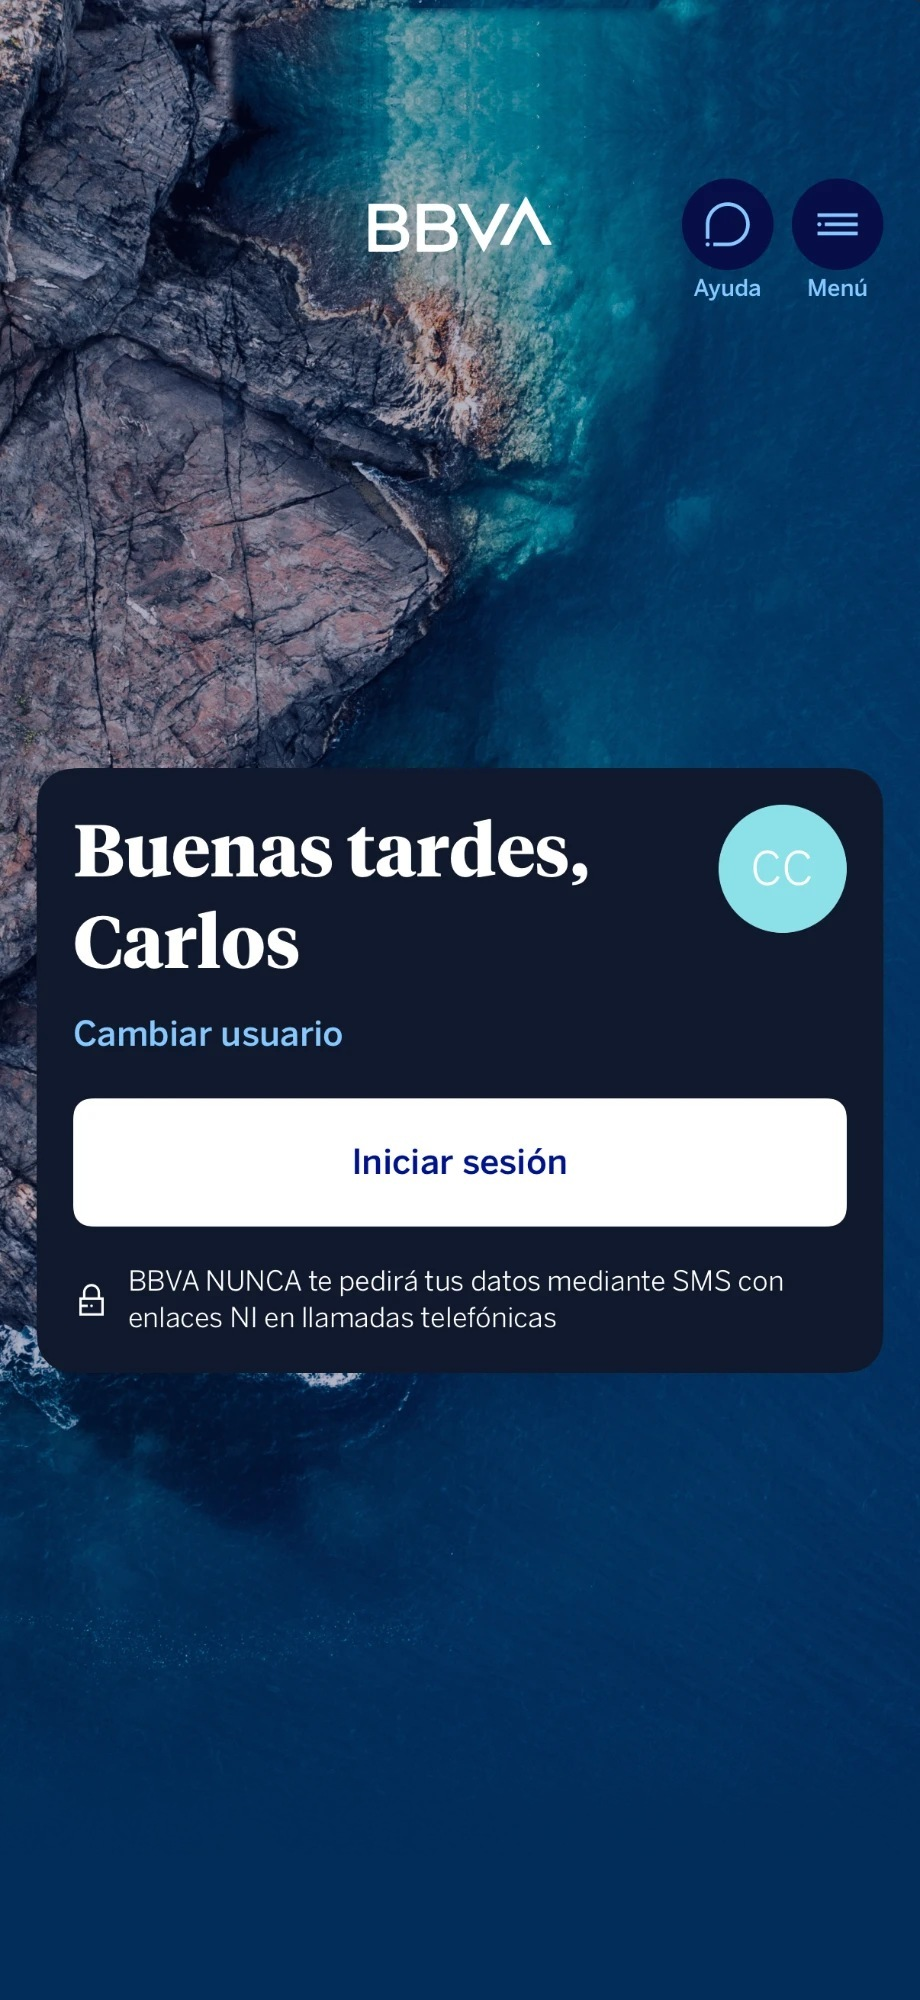
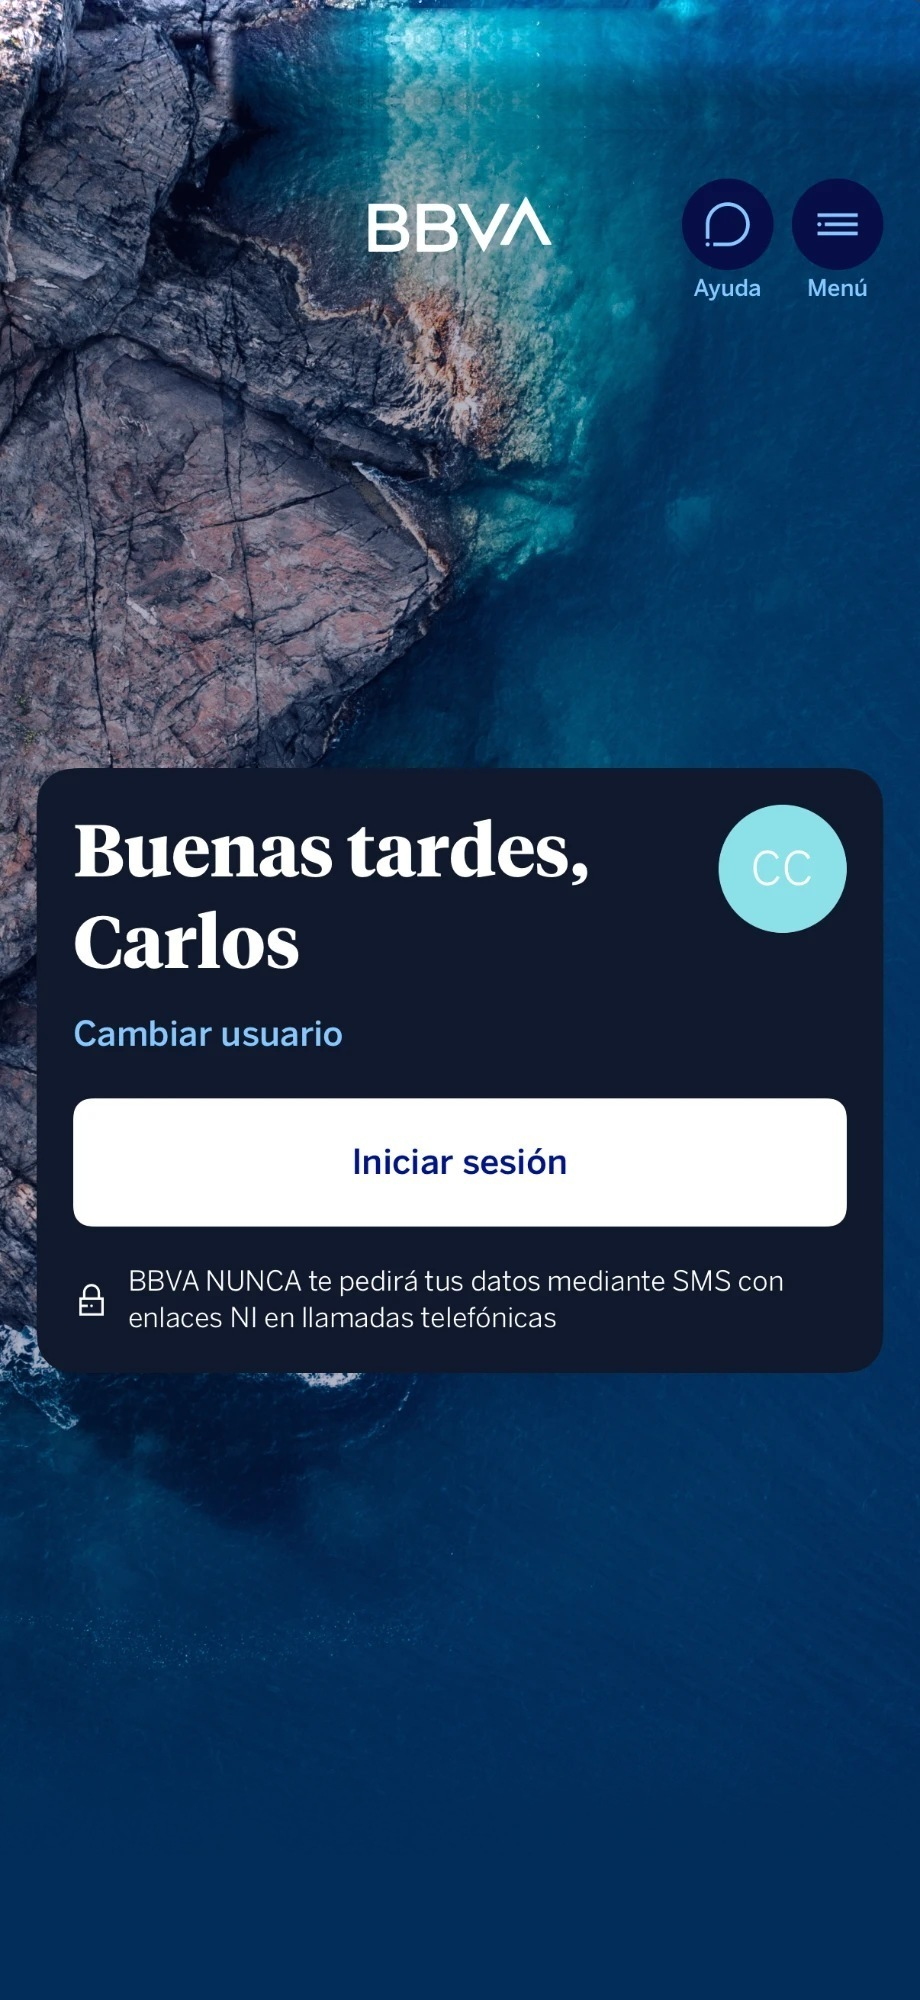
Compensar el oscurecimiento de iOS 26 bajo la hora; quitar franja que no funcionaba (v6)

Changed region(s): [[0.0, 0.0, 1.0, 0.062]]

diff --git a/index.html b/index.html
@@ -11,18 +11,15 @@
   <meta name="apple-mobile-web-app-status-bar-style" content="black-translucent" />
   <meta name="apple-mobile-web-app-title" content="BBVA" />
   <meta name="theme-color" content="#022d5a" />
-  <link rel="manifest" href="manifest.json?v=5" />
+  <link rel="manifest" href="manifest.json?v=6" />
 
   <link rel="preconnect" href="https://fonts.googleapis.com" />
   <link rel="preconnect" href="https://fonts.gstatic.com" crossorigin />
   <link href="https://fonts.googleapis.com/css2?family=Lora:wght@600;700&family=Inter:wght@300;400;500;600&display=swap" rel="stylesheet" />
 
-  <link rel="stylesheet" href="style.css?v=5" />
+  <link rel="stylesheet" href="style.css?v=6" />
 </head>
 <body>
-  <!-- Franja fija arriba con el mismo trozo de foto: evita el desenfoque "Liquid Glass" de iOS 26 bajo la hora -->
-  <div class="topcap"></div>
-
   <!-- Foto real a pantalla completa (logo BBVA, Ayuda y Menú vienen en la imagen) -->
   <div class="stage">
     <section class="card">
@@ -48,7 +45,6 @@
     // En modo app (pantalla de inicio) ocupar la pantalla entera, también bajo la barra de estado
     (function () {
       var stage = document.querySelector('.stage');
-      var topcap = document.querySelector('.topcap');
       var standalone = window.navigator.standalone === true ||
         window.matchMedia('(display-mode: standalone)').matches;
       function fit() {
@@ -56,10 +52,8 @@
         var h = standalone ? Math.max(screen.height, window.innerHeight) : window.innerHeight;
         stage.style.height = h + 'px';
         document.documentElement.style.backgroundSize = w + 'px ' + h + 'px';
-        topcap.style.height = Math.round(h * 130 / 2000) + 'px';
-        topcap.style.backgroundSize = w + 'px ' + h + 'px';
         var d = document.getElementById('dbg');
-        if (d) d.textContent = 'v5 · app:' + (standalone ? 'sí' : 'no') + ' · ventana ' + window.innerWidth + 'x' + window.innerHeight +
+        if (d) d.textContent = 'v6 · app:' + (standalone ? 'sí' : 'no') + ' · ventana ' + window.innerWidth + 'x' + window.innerHeight +
           ' · pantalla ' + screen.width + 'x' + screen.height + ' · html ' + document.documentElement.clientHeight;
       }
       fit();

diff --git a/style.css b/style.css
@@ -17,25 +17,13 @@ html, body {
    (también por debajo de donde acaba la página en modo app).
    El tamaño exacto en píxeles lo pone el script según la pantalla. */
 html {
-  background: #022d5a url("bg.jpg?v=5") 0 0 / 100vw 100vh no-repeat;
+  background: #022d5a url("bg.jpg?v=6") 0 0 / 100vw 100vh no-repeat;
 }
 
 body {
   background: transparent;
 }
 
-/* iOS 26 desenfoca lo que hay bajo la hora salvo que arriba haya una caja fija con fondo.
-   Esta caja lleva exactamente el mismo trozo de foto, así que no se nota. */
-.topcap {
-  position: fixed;
-  top: 0;
-  left: 0;
-  width: 100%;
-  height: 60px;
-  background: rgb(24, 75, 104) url("bg.jpg?v=5") 0 0 / 100vw 100vh no-repeat;
-  pointer-events: none;
-  z-index: 1;
-}
 
 /* Capa donde va la tarjeta. --u = 1 píxel de la captura original (920 x 2000) */
 .stage {
